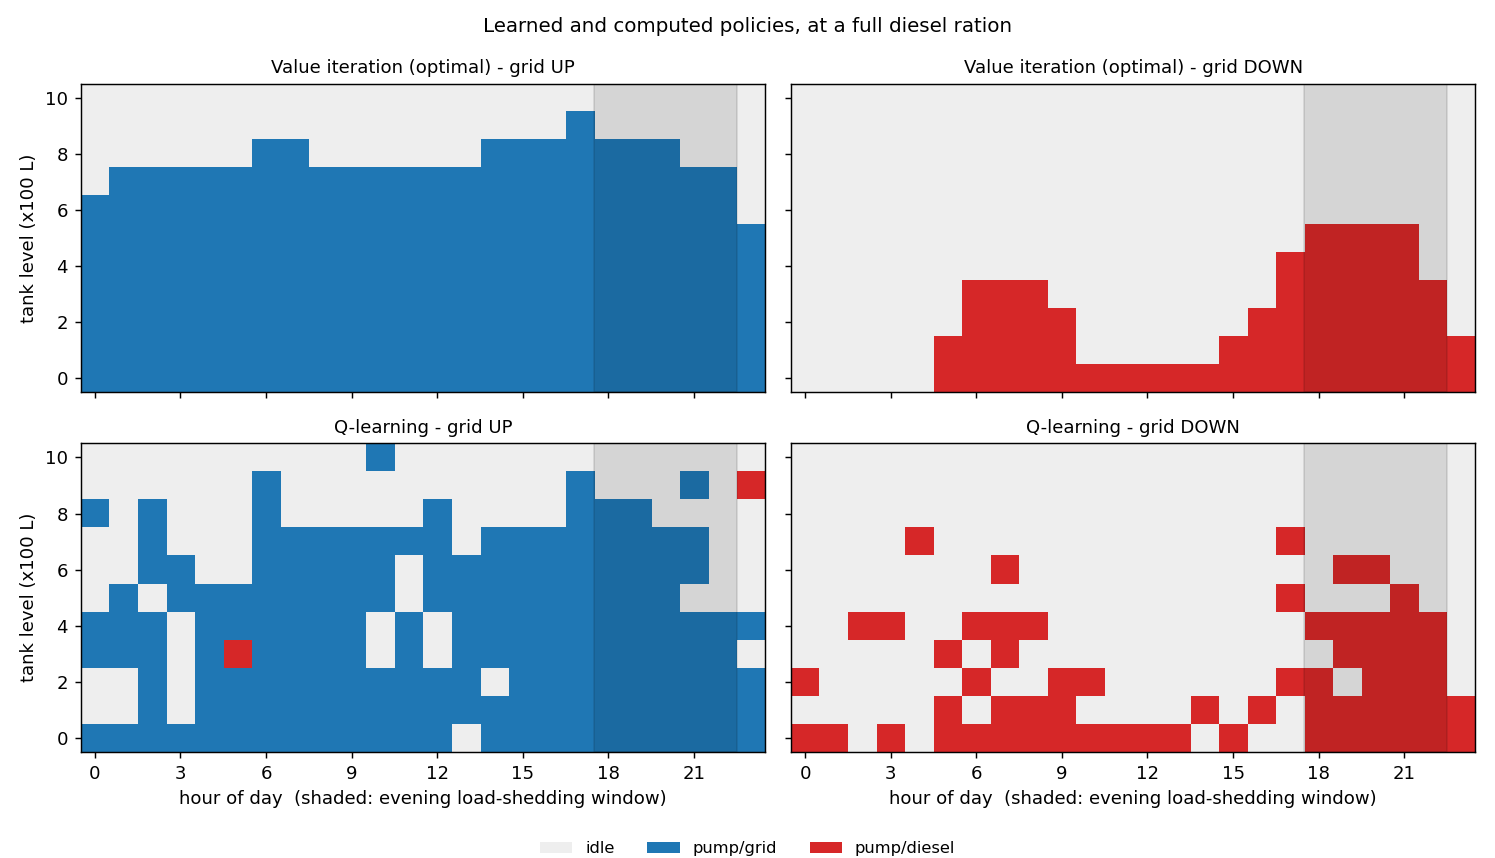
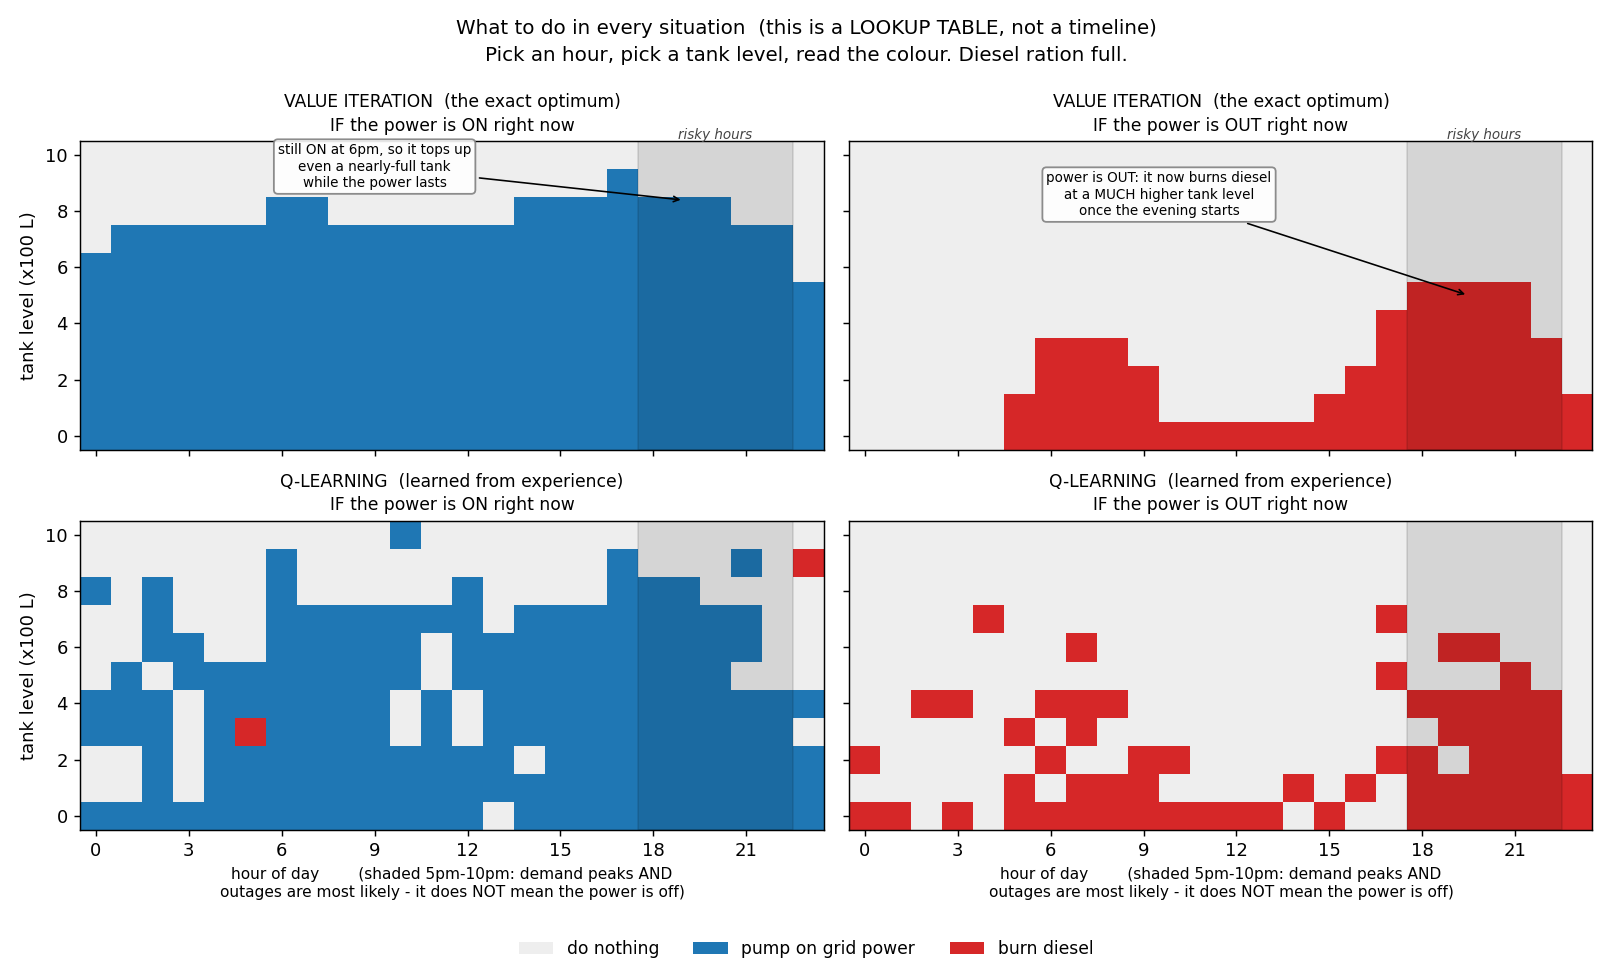
fix(plots): the policy map was misleading - relabel it as the lookup table it is
The figure said 'shaded: evening load-shedding window', which reads as 'the power
is off in this band'. But the left-hand panels are the grid-UP world, so the blue
inside the shading looked like a contradiction: why is it pumping on grid power
during an outage?

It was never a contradiction. It is the smartest thing in the picture, and the
labelling buried it:

- The figure is a LOOKUP TABLE, not a timeline. Pick an hour, pick a tank level,
  read the action. Nothing happens left to right.
- Left and right are two different WORLDS that both exist at every hour: 'suppose
  the power is on right now' and 'suppose the power is out right now'.
- The shaded band marks the RISKY HOURS (17:00-22:00, demand peaks and outages are
  most likely). It does not mean the power is off. That is what the left/right
  split is for.
- So blue inside the shading on the left is the agent saying: it is 8pm, the power
  could go any second, but right now it is still on - so pump hard while I can. It
  tops up even a nearly-full tank at 18:00, which it never does at 03:00.

Changes: panel titles now say 'IF the power is ON/OUT right now'; the shading is
labelled 'risky hours' on the figure and the axis explicitly says it does NOT mean
the power is off; two annotations point at the anticipation in each world; the
legend spells out the actions in words.

Also rewrote the report caption and the reading guide in START_HERE.md and
[…]

diff --git a/3/src/rl_experiments.py b/3/src/rl_experiments.py
@@ -330,41 +330,86 @@ def plot_hyperparams(df, path):
 # E6 - What does the optimal policy actually DO?
 # =====================================================================
 def plot_policy_maps(mdp, pi_star, pi_ql, path):
-    """Tank level against hour of day, at a full diesel ration. This is the
-    figure that shows the agent pre-filling before the evening outage window -
-    the whole reason the problem needs lookahead.
+    """The policy, drawn as the lookup table it actually is.
+
+    This figure is NOT a timeline. Nothing happens left to right. It is a
+    lookup table: pick an hour (column), pick a tank level (row), and the colour
+    tells you what to do IN THAT SITUATION.
+
+    The left and right panels are two different WORLDS, and both exist at every
+    hour: "suppose the power is on right now" and "suppose the power is out right
+    now". The shaded band marks the RISKY HOURS - when outages are likely and
+    demand peaks. It does NOT mean the power is off; that is what the left/right
+    split is for.
+
+    An earlier version of this figure labelled the shading "load-shedding window",
+    which made the blue inside it on the grid-UP panel look like a contradiction.
+    It is the opposite - it is the smartest thing in the picture. It says: it is
+    8pm, the power may go at any moment, but right now it is still on, so pump
+    hard while you still can. The labels now say that.
     """
     cfg = mdp.cfg
     cmap = matplotlib.colors.ListedColormap(["#eeeeee", "#1f77b4", "#d62728"])
-    fig, axes = plt.subplots(2, 2, figsize=(11.5, 6.6), sharex=True, sharey=True)
+    fig, axes = plt.subplots(2, 2, figsize=(12.4, 7.4), sharex=True, sharey=True)
 
     panels = [
-        (pi_star, 1, "Value iteration (optimal) - grid UP"),
-        (pi_star, 0, "Value iteration (optimal) - grid DOWN"),
-        (pi_ql, 1, "Q-learning - grid UP"),
-        (pi_ql, 0, "Q-learning - grid DOWN"),
+        (pi_star, 1, "VALUE ITERATION  (the exact optimum)",
+         "IF the power is ON right now"),
+        (pi_star, 0, "VALUE ITERATION  (the exact optimum)",
+         "IF the power is OUT right now"),
+        (pi_ql, 1, "Q-LEARNING  (learned from experience)",
+         "IF the power is ON right now"),
+        (pi_ql, 0, "Q-LEARNING  (learned from experience)",
+         "IF the power is OUT right now"),
     ]
-    for ax, (pol, g, title) in zip(axes.ravel(), panels):
+    for ax, (pol, g, who, world) in zip(axes.ravel(), panels):
         grid = np.zeros((cfg.n_levels, 24), dtype=int)
         for L in range(cfg.n_levels):
             for t in range(24):
                 grid[L, t] = pol[mdp.encode(L, t, g, cfg.fuel_per_day)]
         ax.imshow(grid, origin="lower", aspect="auto", cmap=cmap, vmin=0, vmax=2)
         ax.axvspan(17.5, 22.5, color="black", alpha=0.10)
-        ax.set_title(title, fontsize=10)
+        ax.set_title(f"{who}\n{world}", fontsize=9.5, linespacing=1.4)
         ax.set_xticks(range(0, 24, 3))
         ax.set_yticks(range(0, cfg.n_levels, 2))
+
+    # Say what the shading means, on the figure, so nobody has to guess.
+    axes[0, 0].text(20, 10.6, "risky hours", fontsize=7.5, ha="center",
+                    style="italic", color="#444444")
+    axes[0, 1].text(20, 10.6, "risky hours", fontsize=7.5, ha="center",
+                    style="italic", color="#444444")
+
+    # The two things worth pointing at.
+    axes[0, 0].annotate(
+        "still ON at 6pm, so it tops up\neven a nearly-full tank\nwhile the power lasts",
+        xy=(19, 8.4), xytext=(9.0, 9.6), fontsize=7.5, color="black",
+        ha="center", va="center",
+        arrowprops=dict(arrowstyle="->", lw=0.9, color="black"),
+        bbox=dict(boxstyle="round,pad=0.3", fc="white", ec="grey", alpha=0.9))
+    axes[0, 1].annotate(
+        "power is OUT: it now burns diesel\nat a MUCH higher tank level\nonce the evening starts",
+        xy=(19.5, 5.0), xytext=(9.5, 8.6), fontsize=7.5, color="black",
+        ha="center", va="center",
+        arrowprops=dict(arrowstyle="->", lw=0.9, color="black"),
+        bbox=dict(boxstyle="round,pad=0.3", fc="white", ec="grey", alpha=0.9))
+
     for ax in axes[1]:
-        ax.set_xlabel("hour of day  (shaded: evening load-shedding window)")
+        ax.set_xlabel("hour of day        (shaded 5pm-10pm: demand peaks AND\n"
+                      "outages are most likely - it does NOT mean the power is off)",
+                      fontsize=8.5)
     for ax in axes[:, 0]:
         ax.set_ylabel("tank level (x100 L)")
 
     handles = [plt.Rectangle((0, 0), 1, 1, fc=c) for c in
                ["#eeeeee", "#1f77b4", "#d62728"]]
-    fig.legend(handles, ACTION_NAMES, loc="lower center", ncol=3, fontsize=9,
-               frameon=False, bbox_to_anchor=(0.5, -0.015))
-    fig.suptitle("Learned and computed policies, at a full diesel ration", fontsize=11)
-    fig.tight_layout(rect=(0, 0.035, 1, 1))
+    fig.legend(handles, ["do nothing", "pump on grid power", "burn diesel"],
+               loc="lower center", ncol=3, fontsize=9.5, frameon=False,
+               bbox_to_anchor=(0.5, -0.012))
+    fig.suptitle(
+        "What to do in every situation  (this is a LOOKUP TABLE, not a timeline)\n"
+        "Pick an hour, pick a tank level, read the colour. Diesel ration full.",
+        fontsize=11, linespacing=1.5)
+    fig.tight_layout(rect=(0, 0.04, 1, 0.99))
     fig.savefig(path, dpi=130)
     plt.close(fig)
 

diff --git a/3/report/main.tex b/3/report/main.tex
@@ -803,11 +803,20 @@ So the honest conclusion inverts the one we went looking for:
 
 \begin{figure}[H]
   \centering
-  \includegraphics[width=0.92\textwidth]{figures/a3_rl_policy_maps.png}
-  \caption{Policies at a full diesel ration. Value Iteration (top) is clean and shows the
-  diesel region expanding into the shaded evening outage window --- that is anticipation. Q-learning
-  (bottom) recovers the same structure but speckled, which is what an under-trained tabular
-  learner looks like. It picks an optimal action in 86.6\% of states.}
+  \includegraphics[width=\textwidth]{figures/a3_rl_policy_maps.png}
+  \caption{The policy as a lookup table, at a full diesel ration. This is \emph{not} a
+  timeline: pick an hour (column) and a tank level (row), and the colour is the action in that
+  state. The left and right panels are two different worlds that both exist at every hour ---
+  "the power is on right now" and "the power is out right now" --- and the shaded band marks the
+  risky hours (17:00--22:00, when demand peaks and outages are most likely), \emph{not} hours in
+  which the power is off.
+  Two things follow. On the left, the blue inside the shaded band is the agent pumping hard
+  \emph{because} the power may be about to go: at 18:00 it tops up even a nearly-full tank, which
+  it never does at 03:00. On the right, the diesel region expands sharply once the evening opens
+  --- with the power out at 07:00 and a low tank it idles, but at 19:00 with the same tank it
+  burns fuel. Both are anticipation, and neither is expressible by a clock-blind threshold rule.
+  Q-learning (bottom) recovers the same structure but speckled, which is what an under-trained
+  tabular learner looks like; it picks an optimal action in 86.6\% of states.}
   \label{fig:a3policy}
 \end{figure}
 

diff --git a/3/docs/PITCH.md b/3/docs/PITCH.md
@@ -182,7 +182,35 @@ He will wonder whether a simple rule would do. Answer it before he asks.
 
 ### 3.3 Show the policy map (60 seconds)
 
-Open `rl_policy_maps.png`. Point at the **top-right** panel.
+Open `rl_policy_maps.png`.
+
+**First, tell him how to read it, because it is not obvious.**
+
+> *"This isn't a timeline. Nothing happens left to right. It's a lookup table.*
+>
+> *Pick an hour along the bottom. Pick a tank level up the side. The colour tells
+> you what to do in that exact situation. Grey is do nothing, blue is pump on grid
+> power, red is burn diesel.*
+>
+> *And the left and right panels are two different worlds, both of which exist at
+> every hour. Left is 'suppose the power is ON right now'. Right is 'suppose the
+> power is OUT right now'.*
+>
+> *The shaded band is just the risky hours — 5 to 10pm, when demand peaks and
+> outages are most likely. It does NOT mean the power is off. That's what the
+> left/right split is for."*
+
+**That last sentence matters.** Without it, the blue inside the shaded band on the
+left panel looks like a contradiction — "you said the power is out, why is it
+pumping on the grid?" It isn't a contradiction. It's the cleverest thing in the
+figure, and you should say so:
+
+> *"Look at the blue inside the shaded band on the left. That's the agent saying:
+> it's 8pm, the power could go at any moment — but right now it's still on, so pump
+> HARD while I still can. It even tops up a nearly-full tank, which it never bothers
+> doing at 3am. That's it grabbing cheap electricity before it disappears."*
+
+Now point at the **top-right** panel.
 
 > *"Hours across the bottom, tank level up the side. Red means burn diesel.*
 >

diff --git a/3/docs/START_HERE.md b/3/docs/START_HERE.md
@@ -117,11 +117,31 @@ guessing*. Thirty particles that share one number score 89.9.
 > That is the teacher's ant-in-a-bowl point, proven. It is not the *population* that helps. It
 > is the **communication**. If you only remember one result, remember this one.
 
-**`rl_policy_maps.png`** — four grids. Left-right is the hour of the day, up-down is how full
-the tank is. Blue = pump on grid, red = burn diesel, grey = do nothing. Look at the top-right
-panel (the optimal policy when the power is out): the red region *grows* as you enter the
-shaded evening window. That is the agent *anticipating* — spending diesel more willingly at 7pm
-than at 7am, because it knows the outage will be long.
+**`rl_policy_maps.png`** — the one people misread, so read this first.
+
+**It is not a timeline.** Nothing happens left to right. It is a **lookup table**: pick an hour
+(column), pick a tank level (row), and the colour tells you what to do *in that situation*.
+Grey = do nothing, blue = pump on grid, red = burn diesel.
+
+**The left and right panels are two different worlds**, and both exist at every hour:
+
+- **Left:** "suppose the power is **ON** right now — what do I do?"
+- **Right:** "suppose the power is **OUT** right now — what do I do?"
+
+The shaded band is just **the risky hours** (5–10pm, when demand peaks and outages are most
+likely). It does **not** mean the power is off — that is what the left/right split is for.
+
+Once you know that, two things jump out:
+
+1. **Blue inside the shaded band, on the LEFT.** It's 8pm, the power could go any second, but
+   right now it's still on — so pump *hard* while you can. It even tops up a nearly-full tank,
+   which it never bothers doing at 3am. That is the agent grabbing cheap electricity before it
+   disappears.
+2. **The red region GROWS in the shaded band, on the RIGHT.** With the power out at 7am and a
+   low tank it does nothing; at 7pm with the same tank it burns diesel. It is willing to spend
+   its scarce fuel in the evening because it knows the outage will be long.
+
+Both of those are *anticipation*. That is the whole point of Part B.
 
 Then compare the bottom row (Q-learning) to the top row (Value Iteration). Same shape, but
 speckled and messy. That is what "hasn't seen enough data yet" looks like.